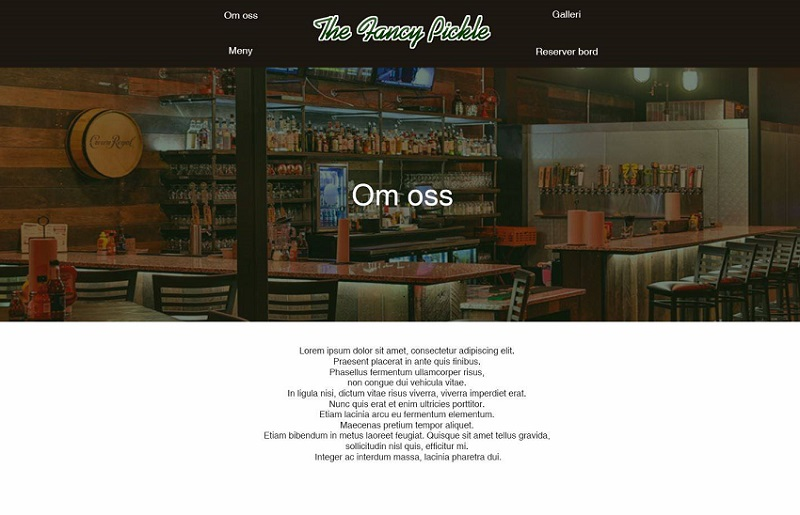
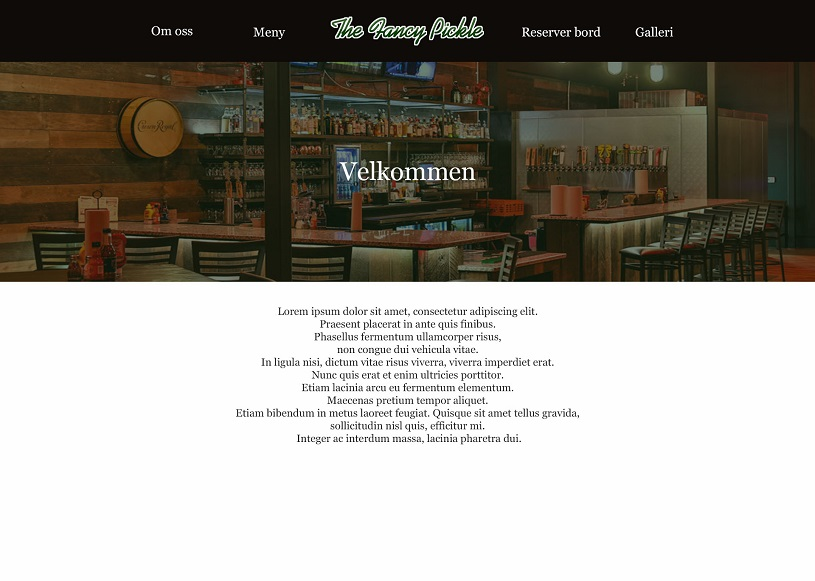
mockups

diff --git a/p2/P2_design_44.html b/p2/P2_design_44.html
@@ -82,13 +82,13 @@
         restauranten stå. Ved å klikke på denne vil man komme tilbake til forsiden, sett ut ifra at man ikke befinner seg der allerede såklart.
       </p>
       <h3>Hovedside:</h3>
-      <img src="img/hovedside.jpg" alt="Mockup av hovedside">
+      <img src="img/hovedside.jpg" alt="Mockup av hovedside (velskomstside)">
       <p>Hovedsien skal være den første siden brukeren kommer til når han eller hun besøker siden. Som mockupen viser skal det være en navigasjonsbar på toppen som gjør det mulig for bruker å ta seg frem til alle andre sidene på nettsiden. Det er
         tross alt en nettside for en restaurant, så det viktigste er at brukeren finner det han eller hun leter etter. På forsiden skal det vises et par bilder av matretter for å gjøre siden mer estetisk appellerende. Footeren skal også vises på
         forsiden, selvfølgelig nederst og ute av syne på mockupen. (Mockup av footer finner du lenger ned)
       </p>
       <h3>Om oss:</h3>
-      <img src="img/hovedside.jpg" alt="Mockup av hovedside">
+      <img src="img/om_oss.jpg" alt="Mockup av siden som omhandler restauranten">
       <p>
         Denne siden skal, som alle andre sidene, skal dele den samme CSS-filen som forsiden. Målet med dette er å opprettholde den røde tråden når det gjelder estetikk. Her skal det være mulig å finne alt bruker trenger av informasjon om
         restauranten. Det skal være en liten tekst fra eieren av restauranten, samt et bilde, som sier litt om målet han har med restauranten, og hvorfor han åpnet den. Det vil være mulig å finne telefonnummer, e-mail, adresse og all annen nyttig
@@ -96,22 +96,42 @@
         annerledes med "Om oss"-siden.
       </p>
       <h3>Meny:</h3>
-      <img src="img/hovedside.jpg" alt="Mockup av hovedside">
+      <img src="img/meny.jpg" alt="Mockup av menyen">
       <p>
-        På "Meny"-siden skal det ikke være stort mer enn litt informasjon om menyen i form av en paragraf som befinner seg over selve menyen. Målet er at menyen selv skal være en godt representert meny som reflekterer visjonen til restauranten, uten
+        På "Meny"-siden skal det ikke være stort mer enn litt informasjon om menyen i form av en paragraf som befinner seg over selve menyenog noen bilder. Målet er at menyen selv skal være en godt representert meny som reflekterer visjonen til restauranten, uten
         alt for mye annet som ikke er innenfor temaet. Denne menyen skal ikke være et bilde, men skal være laget i HTML, CSS og JavaScript. På denne måten kan vi lage en visuelt appellerende meny som får eventuelle kunder til å ville reservere bord.
       </p>
       <h3>Bordreservasjon:</h3>
-      <img src="img/hovedside.jpg" alt="Mockup av hovedside">
+      <img src="img/reserver.jpg" alt="Mockup av bordreservasjonen">
+      <p>
+        Skal ha en slags knapp på siden som gjør at brukeren blir ført videre til selve bordbestillings-programmet. (Har ikke fastslått hvordan, så ble kun lorem ipsum tekst her.)
+      </p>
+      <img src="img/reserverpop.jpg" alt="Mockup av selve bordres-programmet">
       <p>Målet med denne siden er at brukeren skal kunne reservere bord på en intuitiv og god måte. Det vi tenker her er at det skal være mulig å velge ulike parametre for reservering. Eksempler på dette er; antall mennesker, dato, klokkeslett osv.
         Forhåpentligvis skal dette fungere som en pop-up applikasjon som skal lages i JavaScript. Denne skal selvfølgelig ikke poppe opp når bruker kommer til nettsiden, men når bruker selv har klikket på "Klikk for å reservere bord"-knappen (Om
         labelen er akkurat dette er ikke sikkert). Før applikasjonen vises skal det stå litt om innstruksjoner og informasjon om bordreservasjonen.
       </p>
-      <h3>Footer:</h3>
-      <img src="img/hovedside.jpg" alt="Mockup av hovedside">
-      <p>Footeren skal være den nederste delen på alle nettsider, akkurat som navbaren er den øverste. Her skal det stå en litt oppsummert informasjon om restauranten og siden. Det skal også være et lite bilde av lokasjonen til restauranten i form
-        av google maps.
+      <h3>Galleri:</h3>
+      <img src="img/galleri.jpg" alt="Mockup av gallerisiden">
+      <p>
+        På gallerisiden vår skal vi ha en bildeserie som går automatisk. Her kan også brukeren velge å bla videre. Formålet med siden er å
+        reklamere for restauranten, så derfor velger vi å vise livlige og fine bilder av restauranten og de som besøker den.
       </p>
+      <h3>Footer:</h3>
+      <img src="img/footer.jpg" alt="Mockup av footeren">
+      <p>Footeren skal være den nederste delen på alle nettsider, akkurat som navbaren er den øverste. Her skal det stå en litt oppsummert informasjon om restauranten og siden. Det skal også være et lite bilde av lokasjonen til restauranten i form
+        av google maps. Vi har her valgt å eksludere den i en del mockups fordi vi vil til en hver tid ha den nederst, men at den kun skal være synlig dersom brukeren scroller ned.
+        Mobilmockupen har med footeren bare for å demonstrere.
+      </p>
+      <h3>Mobileksempel:</h3>
+      <img src="img/mobil.jpg" alt="Mockup av mobilside">
+      <p>
+        Vi valgte også å lage en mockup av hvordan en mobilside vil bli fremstilt. Her skal siden skaleres ut i fra hva slags enhet brukeren besøker siden fra.
+        Valgte også å inkludere footeren for å vise hvordan denne kan bli seendes ut. I tillegg kan man se at menyen øverst i navbaren er erstattet av tre streker.
+        Dette er en applikasjon, nesten som en drop-down-meny, som skal erstatte dette. Grunnen til at vi valgte å gjøre det slik er fordi brukeropplevelsen på siden
+        blir bedre dersom man bruker responsive-design. Man slipper altså at menyen ville blitt presset sammen på en rotete måte:
+      </p>
+      <img src="img/mobilmeny.jpg" alt="Mockup av mobilmenyen">
     </div>
     <div class="par">
       <h2 id="krav">Minstekrav</h2>
